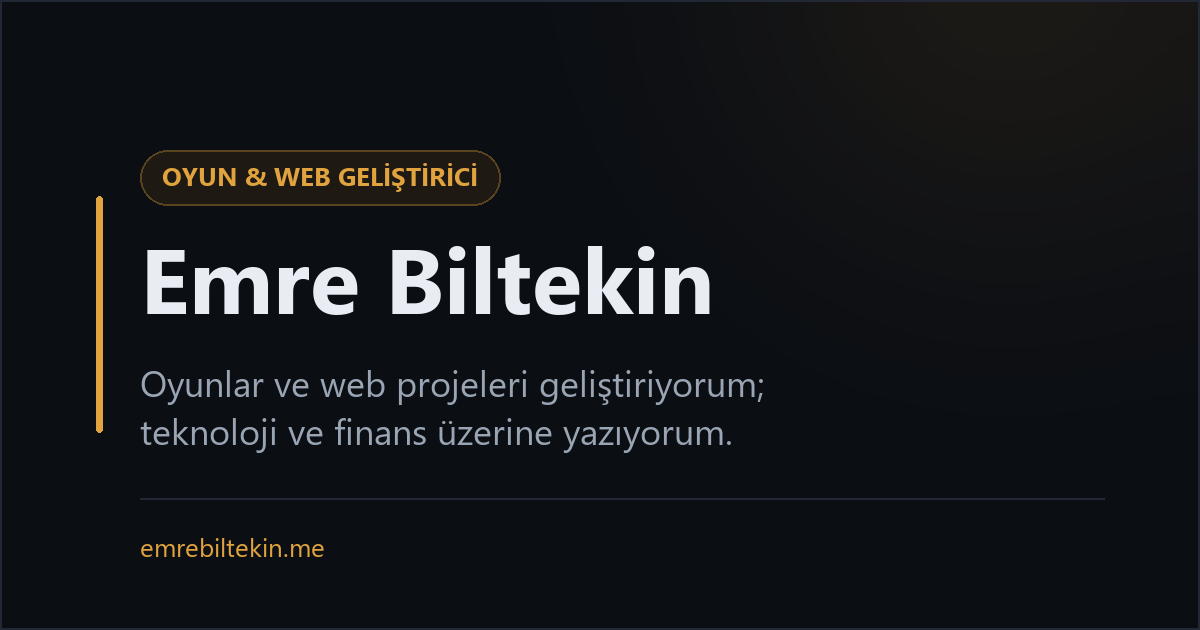
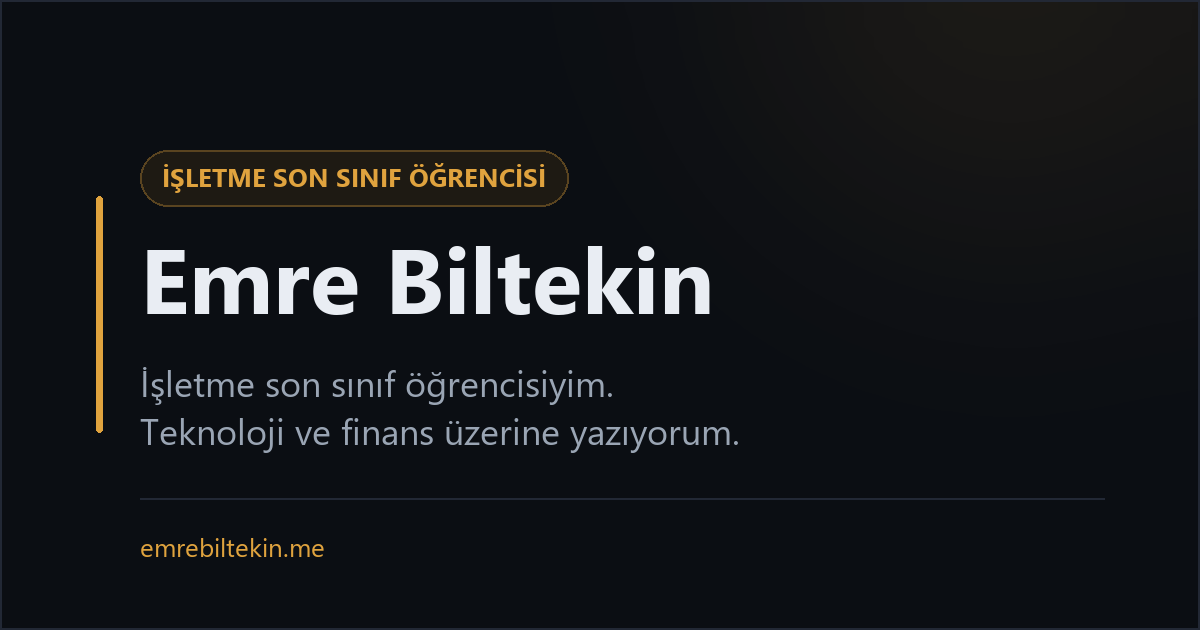
Kimliği işletme son sınıf öğrencisi olarak güncelle

Changed region(s): [[0.0925, 0.6635, 0.6167, 0.7238], [0.1233, 0.2111, 0.4625, 0.3317], [0.0925, 0.573, 0.6475, 0.6333]]

diff --git a/assets/js/i18n.js b/assets/js/i18n.js
@@ -15,19 +15,19 @@ const I18N = {
     'nav.theme':     'Temayı değiştir',
 
     'home.featured.title': 'Öne Çıkan Projeler',
-    'home.featured.desc':  'Üzerinde çalıştığım oyunlar, siteler ve araçlar.',
+    'home.featured.desc':  'Üzerinde çalıştığım web projeleri ve araçlar.',
     'home.featured.all':   'Tüm projeler',
     'home.latest.title':   'Son Yazılar',
-    'home.latest.desc':    'Geliştirme notları, finans ve teknoloji üzerine yazdıklarım.',
+    'home.latest.desc':    'Teknoloji, finans ve öğrendiklerim üzerine yazdıklarım.',
     'home.latest.all':     'Tüm yazılar',
 
     'projects.title':  'Projeler',
-    'projects.desc':   'Geliştirdiğim oyunlar, web projeleri ve araçlar.',
+    'projects.desc':   'Geliştirdiğim web projeleri ve araçlar.',
     'projects.search': 'Proje ara...',
     'projects.empty':  'Bu filtreye uyan proje yok.',
 
     'blog.title':   'Blog',
-    'blog.desc':    'Yazılım, oyun geliştirme, ağ teknolojileri ve finans üzerine yazılar.',
+    'blog.desc':    'Teknoloji, finans ve öğrendiklerim üzerine yazılar.',
     'blog.search':  'Yazılarda ara...',
     'blog.empty':   'Bu filtreye uyan yazı yok.',
     'blog.back':    'Tüm yazılar',
@@ -73,19 +73,19 @@ const I18N = {
     'nav.theme':     'Toggle theme',
 
     'home.featured.title': 'Featured Projects',
-    'home.featured.desc':  'Games, sites and tools I have been working on.',
+    'home.featured.desc':  'Web projects and tools I have been working on.',
     'home.featured.all':   'All projects',
     'home.latest.title':   'Latest Writing',
-    'home.latest.desc':    'Development notes and thoughts on finance and technology.',
+    'home.latest.desc':    'Notes and thoughts on technology and finance.',
     'home.latest.all':     'All posts',
 
     'projects.title':  'Projects',
-    'projects.desc':   'Games, web projects and tools I have built.',
+    'projects.desc':   'Web projects and tools I have built.',
     'projects.search': 'Search projects...',
     'projects.empty':  'No projects match this filter.',
 
     'blog.title':   'Blog',
-    'blog.desc':    'Writing on software, game development, networking and finance.',
+    'blog.desc':    'Writing on technology, finance and things I am learning.',
     'blog.search':  'Search posts...',
     'blog.empty':   'No posts match this filter.',
     'blog.back':    'All posts',

diff --git a/index.html b/index.html
@@ -5,15 +5,15 @@
 <meta name="viewport" content="width=device-width, initial-scale=1">
 <script>/* Tema tercihini sayfa cizilmeden once uygula (ekran yanip sonmesin) */
 try{ if(localStorage.getItem('site.theme')==='light') document.documentElement.dataset.theme='light'; }catch(e){}</script>
-<title>Emre Biltekin — Oyun & Web Geliştirici</title>
-<meta name="description" content="Emre Biltekin'in kişisel sitesi. Oyunlar, web projeleri ve teknoloji ile finans üzerine yazılar.">
+<title>Emre Biltekin — İşletme Son Sınıf Öğrencisi</title>
+<meta name="description" content="Emre Biltekin'in kişisel sitesi. İşletme son sınıf öğrencisi; web projeleri, teknoloji ve finans üzerine yazılar.">
 <link rel="canonical" href="https://emrebiltekin.me/">
 
 <!-- Paylasim kartlari -->
 <meta property="og:type" content="website">
 <meta property="og:site_name" content="Emre Biltekin">
-<meta property="og:title" content="Emre Biltekin — Oyun & Web Geliştirici">
-<meta property="og:description" content="Oyunlar, web projeleri ve teknoloji ile finans üzerine yazılar.">
+<meta property="og:title" content="Emre Biltekin — İşletme Son Sınıf Öğrencisi">
+<meta property="og:description" content="Web projeleri, teknoloji ve finans üzerine yazılar.">
 <meta property="og:url" content="https://emrebiltekin.me/">
 <meta property="og:image" content="https://emrebiltekin.me/assets/img/og-default.png">
 <meta name="twitter:card" content="summary_large_image">

diff --git a/blog.html b/blog.html
@@ -6,13 +6,13 @@
 <script>/* Tema tercihini sayfa cizilmeden once uygula (ekran yanip sonmesin) */
 try{ if(localStorage.getItem('site.theme')==='light') document.documentElement.dataset.theme='light'; }catch(e){}</script>
 <title>Blog — Emre Biltekin</title>
-<meta name="description" content="Yazılım, oyun geliştirme, ağ teknolojileri ve finans üzerine yazılar.">
+<meta name="description" content="Teknoloji, finans ve öğrendiklerim üzerine yazılar.">
 <link rel="canonical" href="https://emrebiltekin.me/blog.html">
 
 <meta property="og:type" content="website">
 <meta property="og:site_name" content="Emre Biltekin">
 <meta property="og:title" content="Blog — Emre Biltekin">
-<meta property="og:description" content="Yazılım, oyun geliştirme, ağ teknolojileri ve finans üzerine yazılar.">
+<meta property="og:description" content="Teknoloji, finans ve öğrendiklerim üzerine yazılar.">
 <meta property="og:url" content="https://emrebiltekin.me/blog.html">
 <meta property="og:image" content="https://emrebiltekin.me/assets/img/og-default.png">
 <meta name="twitter:card" content="summary_large_image">

diff --git a/projects.html b/projects.html
@@ -6,13 +6,13 @@
 <script>/* Tema tercihini sayfa cizilmeden once uygula (ekran yanip sonmesin) */
 try{ if(localStorage.getItem('site.theme')==='light') document.documentElement.dataset.theme='light'; }catch(e){}</script>
 <title>Projeler — Emre Biltekin</title>
-<meta name="description" content="Emre Biltekin'in geliştirdiği oyunlar, web projeleri ve araçlar.">
+<meta name="description" content="Emre Biltekin'in geliştirdiği web projeleri ve araçlar.">
 <link rel="canonical" href="https://emrebiltekin.me/projects.html">
 
 <meta property="og:type" content="website">
 <meta property="og:site_name" content="Emre Biltekin">
 <meta property="og:title" content="Projeler — Emre Biltekin">
-<meta property="og:description" content="Geliştirdiğim oyunlar, web projeleri ve araçlar.">
+<meta property="og:description" content="Geliştirdiğim web projeleri ve araçlar.">
 <meta property="og:url" content="https://emrebiltekin.me/projects.html">
 <meta property="og:image" content="https://emrebiltekin.me/assets/img/og-default.png">
 <meta name="twitter:card" content="summary_large_image">

diff --git a/assets/js/admin.js b/assets/js/admin.js
@@ -361,7 +361,7 @@ function buildFeed(posts){
   <channel>
     <title>${attr(SITE.name)}</title>
     <link>${SITE.url}/</link>
-    <description>Oyun geliştirme, teknoloji ve finans üzerine yazılar.</description>
+    <description>Teknoloji, finans ve öğrendiklerim üzerine yazılar.</description>
     <language>tr</language>
     <atom:link href="${SITE.url}/feed.xml" rel="self" type="application/rss+xml"/>
 
